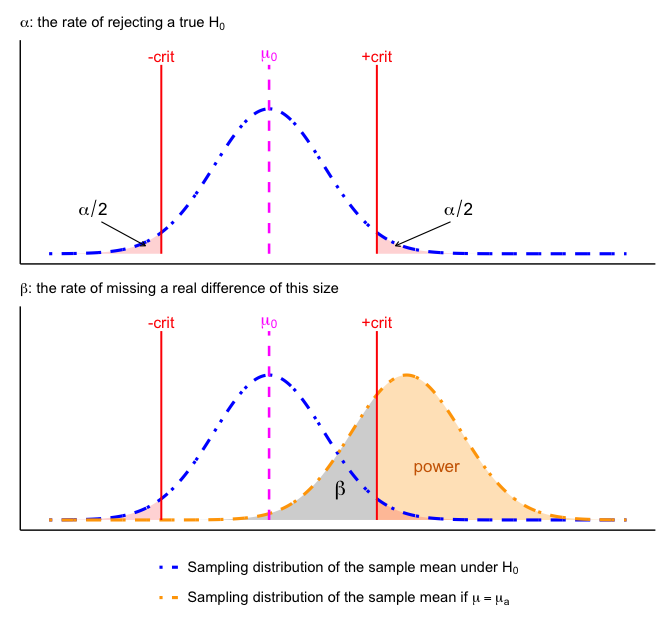
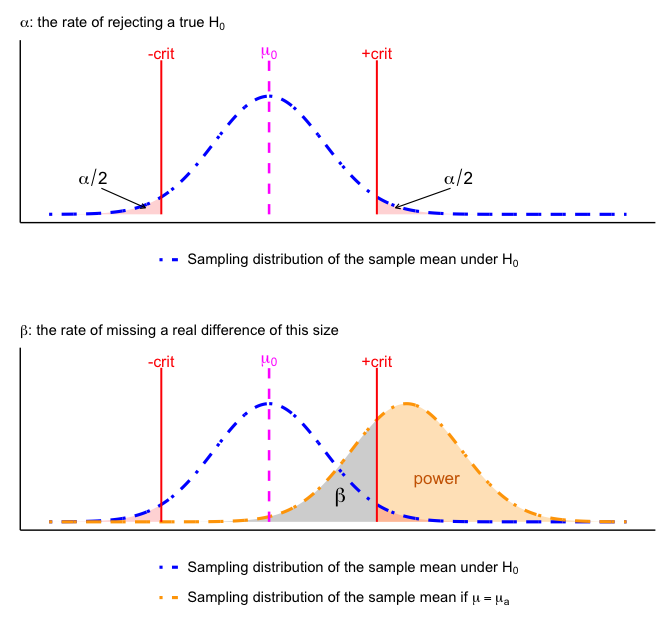
Ch5: alpha needs only the H0 curve; top panel of fig-5alpha-beta gets its own legend; render Ch5
A student read the shared legend as an orange curve hidden behind the blue one
in the alpha panel. Same fix as dev e5303c4, re-applied to master's text.

diff --git a/docs/05-Hypothesis_Testing.html b/docs/05-Hypothesis_Testing.html
@@ -336,7 +336,7 @@ window.Quarto = {
     <div>
     <div class="quarto-title-meta-heading">Modified</div>
     <div class="quarto-title-meta-contents">
-      <p class="date-modified">October 3, 2026</p>
+      <p class="date-modified">October 13, 2026</p>
     </div>
   </div>
     
@@ -439,16 +439,16 @@ Figure&nbsp;5.3: Type II error: <span class="math inline">\(H_0\)</span> is fals
 <p>Those two figures show what a wrong conclusion looks like for one unlucky sample. They do not show how <em>often</em> it happens. The green curve in them is built from that one sample, centered on its <span class="math inline">\(\bar{x}\)</span>. To see how often an error happens, center the sampling distribution on a possible truth instead. That shows where the sample mean lands across all the samples we could have drawn.</p>
 <p><a href="#fig-5alpha-beta" class="quarto-xref">Figure&nbsp;<span>5.4</span></a> does that. The blue curve is the sampling distribution of the sample mean under <span class="math inline">\(H_0\)</span>, the one that sets the critical values. The orange curve is the sampling distribution of the sample mean if <span class="math inline">\(\mu = \mu_a\)</span>. Chapter 4 drew the possible true populations under <span class="math inline">\(H_a\)</span> as a family of curves on either side of <span class="math inline">\(\mu_0\)</span>, and <span class="math inline">\(\mu_a\)</span> is the center of one of them. Because we never know the true <span class="math inline">\(\mu\)</span>, we choose a value for <span class="math inline">\(\mu_a\)</span> and ask how the test would perform if that value were true. The farther <span class="math inline">\(\mu_a\)</span> is from <span class="math inline">\(\mu_0\)</span>, the less likely the test is to miss the difference.</p>
 <ul>
-<li><span class="math inline">\(\alpha\)</span> is the red area in the tails of the blue curve, past the critical values. If <span class="math inline">\(H_0\)</span> is true, that is how often the sample mean lands in the rejection region anyway.</li>
+<li><span class="math inline">\(\alpha\)</span> is the red area in the tails of the blue curve, past the critical values. If <span class="math inline">\(H_0\)</span> is true, that is how often the sample mean lands in the rejection region anyway. In that case the blue curve is the sampling distribution of the sample mean, so <span class="math inline">\(\alpha\)</span> needs only the blue curve. That is why the top panel has no orange curve. The orange curve enters in the bottom panel, for <span class="math inline">\(\beta\)</span>.</li>
 <li><span class="math inline">\(\beta\)</span> is the gray area under the orange curve <em>between</em> the critical values. If <span class="math inline">\(\mu = \mu_a\)</span>, that is how often the sample mean fails to reach the rejection region and a real difference goes undetected.</li>
 <li>Power, <span class="math inline">\(1-\beta\)</span>, is the rest of the orange curve, the part past the critical values.</li>
 </ul>
 <div class="cell">
 <div class="cell-output-display">
-<div id="fig-5alpha-beta" class="quarto-float quarto-figure quarto-figure-center anchored" alt="Two stacked panels sharing the same axes. The top panel shows a single blue dot-dash bell curve centered at the null mean, marked with a magenta dashed vertical line labeled mu sub 0, with red vertical lines labeled minus crit and plus crit at the critical values on either side and small red shaded tails beyond them, each labeled alpha over two. The bottom panel repeats that curve and adds an orange dot-dash bell curve of the same width centered well to the right. The region under the orange curve lying between the two critical-value lines is shaded gray and labeled beta, while the part of the orange curve past the right critical line is shaded orange and labeled power.">
+<div id="fig-5alpha-beta" class="quarto-float quarto-figure quarto-figure-center anchored" alt="Two stacked panels sharing the same axes. The top panel shows a single blue dot-dash bell curve centered at the null mean, marked with a magenta dashed vertical line labeled mu sub 0, with red vertical lines labeled minus crit and plus crit at the critical values on either side and small red shaded tails beyond them, each labeled alpha over two. Its legend lists only the blue curve, the sampling distribution of the sample mean under H0. The bottom panel repeats that curve and adds an orange dot-dash bell curve of the same width centered well to the right. The region under the orange curve lying between the two critical-value lines is shaded gray and labeled beta, while the part of the orange curve past the right critical line is shaded orange and labeled power. The bottom panel's legend lists both curves.">
 <figure class="quarto-float quarto-float-fig figure">
 <div aria-describedby="fig-5alpha-beta-caption-0ceaefa1-69ba-4598-a22c-09a6ac19f8ca">
-<img src="05-Hypothesis_Testing_files/figure-html/fig-5alpha-beta-1.png" class="img-fluid figure-img" style="width:100.0%" alt="Two stacked panels sharing the same axes. The top panel shows a single blue dot-dash bell curve centered at the null mean, marked with a magenta dashed vertical line labeled mu sub 0, with red vertical lines labeled minus crit and plus crit at the critical values on either side and small red shaded tails beyond them, each labeled alpha over two. The bottom panel repeats that curve and adds an orange dot-dash bell curve of the same width centered well to the right. The region under the orange curve lying between the two critical-value lines is shaded gray and labeled beta, while the part of the orange curve past the right critical line is shaded orange and labeled power.">
+<img src="05-Hypothesis_Testing_files/figure-html/fig-5alpha-beta-1.png" class="img-fluid figure-img" style="width:100.0%" alt="Two stacked panels sharing the same axes. The top panel shows a single blue dot-dash bell curve centered at the null mean, marked with a magenta dashed vertical line labeled mu sub 0, with red vertical lines labeled minus crit and plus crit at the critical values on either side and small red shaded tails beyond them, each labeled alpha over two. Its legend lists only the blue curve, the sampling distribution of the sample mean under H0. The bottom panel repeats that curve and adds an orange dot-dash bell curve of the same width centered well to the right. The region under the orange curve lying between the two critical-value lines is shaded gray and labeled beta, while the part of the orange curve past the right critical line is shaded orange and labeled power. The bottom panel's legend lists both curves.">
 </div>
 <figcaption class="quarto-float-caption-bottom quarto-float-caption quarto-float-fig" id="fig-5alpha-beta-caption-0ceaefa1-69ba-4598-a22c-09a6ac19f8ca">
 Figure&nbsp;5.4: The two error rates, drawn on sampling distributions. Top: <span class="math inline">\(\alpha\)</span> is the red area in the tails of the curve under <span class="math inline">\(H_0\)</span>. Bottom: adding the curve for one specific alternative value <span class="math inline">\(\mu_a\)</span>, <span class="math inline">\(\beta\)</span> is the gray area under it between the critical values, and power is the orange area past the right critical value.
